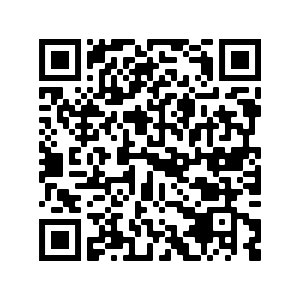
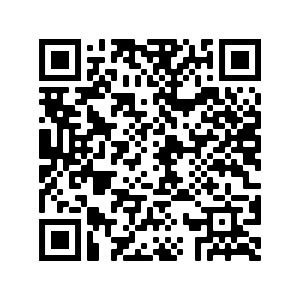
apk change

Changed region(s): [[0.12, 0.12, 0.87, 0.87]]

diff --git a/tutorial/LaTeX/main.tex b/tutorial/LaTeX/main.tex
@@ -38,7 +38,7 @@ Scanne folgenden QR-Code und installiere die App als \texttt{.apk}-Datei:\footno
 \begin{center}
     \colorlet{qr@fancy@gradient@tl}{black!98!@page}
     \colorlet{qr@fancy@gradient@br}{black!98!@page!80!@main}
-    \hidelink{\fancyqr[height=6cm]{https://drive.google.com/file/d/1czD_7MNw5qcPtpCCT-69SvQ9Y3R97dQB/view?usp=sharing}}
+    \hidelink{\fancyqr[height=6cm]{https://drive.google.com/file/d/1hOs30yUwAKuoD-zYpWYmDVbber9gCrsO/view?usp=sharing}}
 \end{center}
 \vfill
 \clearpage
